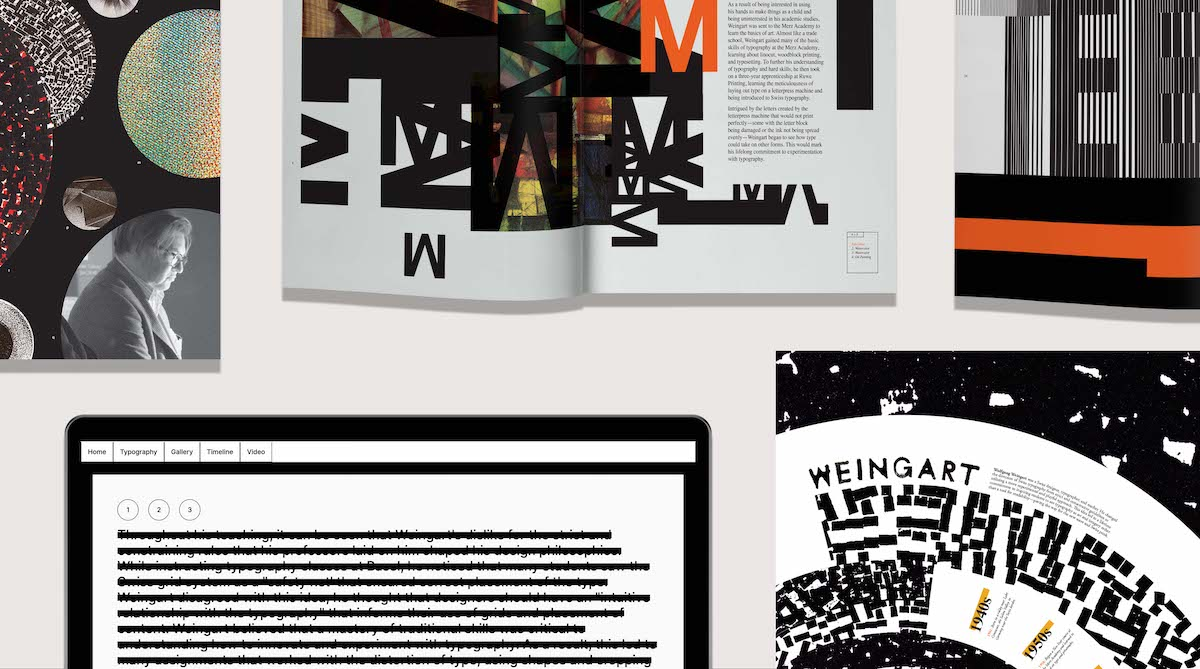
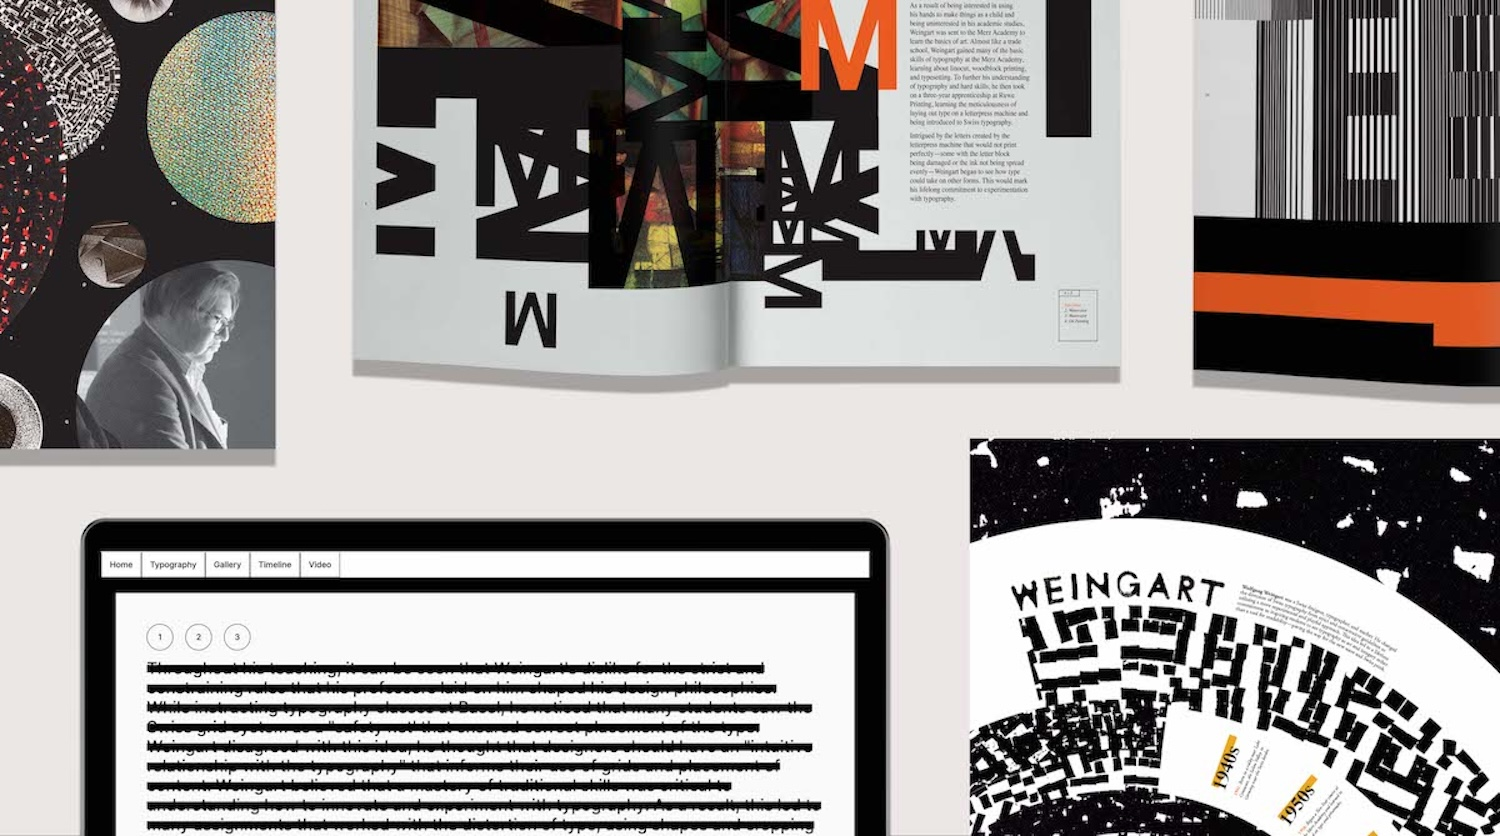
fixed cover image on project pages

diff --git a/pages/Projects/Teachable.js b/pages/Projects/Teachable.js
@@ -45,12 +45,8 @@ export default function Teachable(){
                     </p>
                 </div>
          </div>
-            <div style = {{
-                display: "flex", 
-                justifyContent: "center", 
-            
-            }}>
-                <Image src = {Thumbnail} width = {1080} height ={600} alt = "cover image"/>
+            <div>
+                <Image src = {Thumbnail} alt = "cover image"/>
             </div>
             <br/>
             <div className = {styles.page}>

diff --git a/pages/Landesberg/Valpo.js b/pages/Landesberg/Valpo.js
@@ -56,12 +56,8 @@ export default function Websites(){
             </p>
             </div>
          </div>
-            <div style = {{
-                display: "flex", 
-                justifyContent: "center", 
-            
-            }}>
-                <Image src = {Web} width = {1080} height ={600} alt = "cover image"/>
+            <div>
+                <Image src = {Web} alt = "cover image"/>
             </div>
             <div className = {styles.page}>
                     <div>

diff --git a/pages/Experiments/Exhibit.js b/pages/Experiments/Exhibit.js
@@ -68,12 +68,8 @@ export default function Exhibit(){
             </p>
          </div>
          </div>
-         <div style = {{
-                display: "flex", 
-                justifyContent: "center", 
-            
-            }}>
-                <Image src = {Thumbnail} width = {1080} height ={600} alt = "cover image"/>
+         <div>
+                <Image src = {Thumbnail} alt = "cover image"/>
             </div>
             <div className = {styles.page}>
                 <div>

diff --git a/pages/Landesberg/Pgh.js b/pages/Landesberg/Pgh.js
@@ -46,12 +46,8 @@ export default function PGH(){
             </p>
          </div>
          </div>
-            <div style = {{
-                display: "flex", 
-                justifyContent: "center", 
-            
-            }}>
-                <Image src = {Web} width = {1080} height ={600} alt = "cover image"/>
+            <div>
+                <Image src = {Web} alt = "cover image"/>
             </div>
             <div className = {styles.page}>
                 <div>

diff --git a/pages/Landesberg/Motion.js b/pages/Landesberg/Motion.js
@@ -36,12 +36,8 @@ export default function Magazine(){
             </p>
          </div>
          </div>
-            <div style = {{
-                display: "flex", 
-                justifyContent: "center", 
-            
-            }}>
-                <Image src = {Th} width = {1080} height ={600} alt = "cover image"/>
+            <div>
+                <Image alt = "cover image"/>
             </div>
             <div className = {styles.page}>
                     <div>

diff --git a/pages/Landesberg/Magazines.js b/pages/Landesberg/Magazines.js
@@ -63,12 +63,8 @@ export default function Magazine(){
             </p>
          </div>
          </div>
-        <div style = {{
-                display: "flex", 
-                justifyContent: "center", 
-            
-            }}>
-                <Image src = {Mag} width = {1080} height ={600} alt = "cover image"/>
+        <div>
+                <Image src = {Mag} alt = "cover image"/>
         </div>
             <div className = {styles.page}>
                 <div>

diff --git a/pages/Projects/Dh.js b/pages/Projects/Dh.js
@@ -66,12 +66,8 @@ export default function DesignHero(){
             <br/>
             </div>
             </div>
-            <div style = {{
-                display: "flex", 
-                justifyContent: "center", 
-            
-            }}>
-                <Image src = {DH} width = {1080} height ={600} alt = "cover image"/>
+            <div>
+                <Image src = {DH} alt = "cover image"/>
             </div>
             <br/>
             <br/>

diff --git a/pages/Projects/Garden.js b/pages/Projects/Garden.js
@@ -82,12 +82,8 @@ export default function DesignHero(){
             <br/>
             </div>
             </div>
-            <div style = {{
-                display: "flex", 
-                justifyContent: "center", 
-            
-            }}>
-                <Image src = {DH} width = {1080} height ={600} alt = "cover image"/>
+            <div>
+                <Image src = {DH} alt = "cover image"/>
             </div>
             <br/>
             <br/>

diff --git a/pages/Projects/Gmail.js b/pages/Projects/Gmail.js
@@ -62,12 +62,8 @@ export default function Gmail(){
                 </p>
             </div>
          </div>
-        <div style = {{
-            display: "flex", 
-            justifyContent: "center", 
-        
-        }}>
-            <Image src = {Thumbnail} width = {1080} height ={600} alt = "cover image"/>
+        <div>
+            <Image src={Thumbnail} alt = "cover image"/>
         </div>
         <br/>
         <div className = {styles.page}>

diff --git a/pages/Projects/Replit.js b/pages/Projects/Replit.js
@@ -43,12 +43,8 @@ export default function Gmail(){
             </p>
             </div>
          </div>
-        <div style = {{
-            display: "flex", 
-            justifyContent: "center", 
-        
-        }}>
-            <Image src = {Thumbnail} width = {1080} height ={600} alt = "cover image"/>
+        <div>
+            <Image src = {Thumbnail} alt = "cover image"/>
         </div>
         <br/>
         <div className = {styles.page}>
